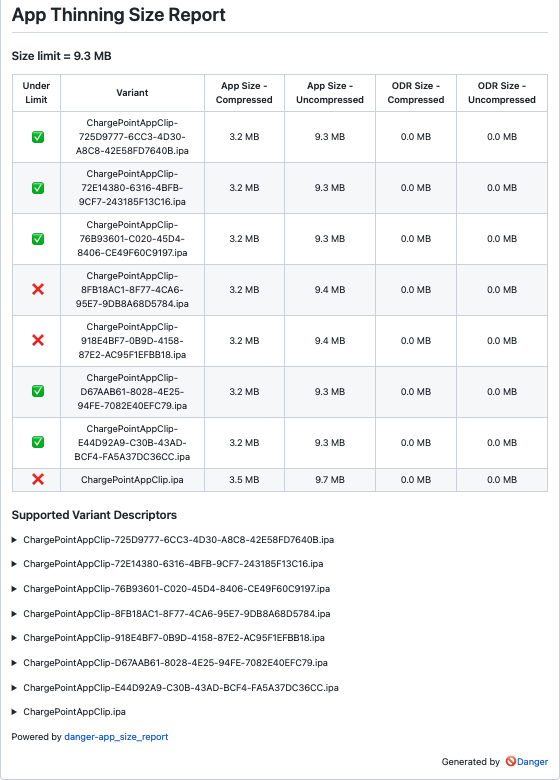
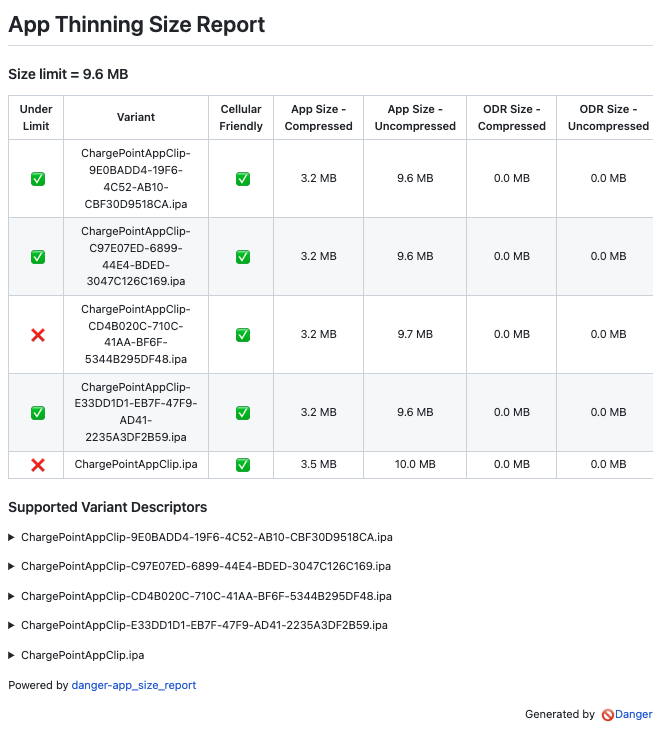
[IMA-12177] Add 'Cellular Friendly' column to iOS app size report (#10)
* [IMA-12177] Added 'Cellular Friendly' column

* [IMA-12177] Updated image of app size report in README.md

diff --git a/lib/app_size_report/plugin.rb b/lib/app_size_report/plugin.rb
@@ -121,6 +121,8 @@ module Danger
   #
   class DangerAppSizeReport < Plugin
     # Reports IOS app size violations given a valid App Thinning Size Report.
+    # The plugin also warns users about variants that exceed the optimal size
+    # limit for cellular downloads (200 MB).
     # @overload flag_ios_violations(report_path, build_type, limit_size, limit_unit, fail_on_warning)
     #   @param [String, required] report_path
     #         Path to valid App Thinning Size Report text file.
@@ -380,6 +382,7 @@ module Danger
 
     def generate_size_report_markdown(variants, build_type, size_limit, limit_unit, fail_on_warning)
       limit_size = MemorySize.new("#{size_limit}#{limit_unit}")
+      cellular_limit_size = MemorySize.new('200 MB')
 
       if build_type == 'Clip' && limit_size.megabytes > 10
         message "The size limit was set to 10 MB as the given limit of #{size_limit} #{limit_unit} exceeds Apple's App Clip size restrictions"
@@ -394,8 +397,10 @@ module Danger
       end
 
       flagged_variant_names = []
+      flagged_cellular_variant_names = []
       variants.each do |variant|
         flagged_variant_names.append(variant.variant) if variant.app_size.uncompressed.value > limit_size.megabytes || variant.on_demand_resources_size.uncompressed.value > limit_size.megabytes
+        flagged_cellular_variant_names.append(variant.variant) if variant.app_size.uncompressed.value > cellular_limit_size.megabytes || variant.on_demand_resources_size.uncompressed.value > cellular_limit_size.megabytes
       end
 
       if flagged_variant_names.length.positive?
@@ -406,21 +411,25 @@ module Danger
         end
       end
 
+      warn 'The optimal cellular size limit of 200 MB has been exceeded by one or more variants' if flagged_cellular_variant_names.length.positive?
+
       size_report = "# App Thinning Size Report\n"
       size_report << "### Size limit = #{size_limit} #{limit_unit.upcase}\n\n"
-      size_report << "| Under Limit | Variant | App Size - Compressed | App Size - Uncompressed | ODR Size - Compressed | ODR Size - Uncompressed |\n"
-      size_report << "| :-: | :-: | :-: | :-: | :-: | :-: |\n"
+      size_report << "| Under Limit | Variant | Cellular Friendly | App Size - Compressed | App Size - Uncompressed | ODR Size - Compressed | ODR Size - Uncompressed |\n"
+      size_report << "| :-: | :-: | :-: | :-: | :-: | :-: | :-:|\n"
 
       flagged_variants_set = flagged_variant_names.to_set
+      flagged_cellular_variants_set = flagged_cellular_variant_names.to_set
 
       variants.each do |variant|
         is_violating = flagged_variants_set.include?(variant.variant) ? '❌' : '✅'
+        is_cellular_friendly = flagged_cellular_variants_set.include?(variant.variant) ? '❌' : '✅'
         app_size_compressed = "#{variant.app_size.compressed.value} #{variant.app_size.compressed.unit}"
         app_size_uncompressed = "#{variant.app_size.uncompressed.value} #{variant.app_size.uncompressed.unit}"
         odr_size_compressed = "#{variant.on_demand_resources_size.compressed.value} #{variant.on_demand_resources_size.compressed.unit}"
         odr_size_uncompressed = "#{variant.on_demand_resources_size.uncompressed.value} #{variant.on_demand_resources_size.uncompressed.unit}"
 
-        size_report << "#{is_violating} | #{variant.variant} | #{app_size_compressed} | #{app_size_uncompressed} | #{odr_size_compressed} | #{odr_size_uncompressed} |\n"
+        size_report << "#{is_violating} | #{variant.variant} | #{is_cellular_friendly} | #{app_size_compressed} | #{app_size_uncompressed} | #{odr_size_compressed} | #{odr_size_uncompressed} |\n"
       end
 
       markdown size_report

diff --git a/spec/app_size_report_spec.rb b/spec/app_size_report_spec.rb
@@ -15,22 +15,33 @@ module Danger
       end
 
       it 'Converts App Size Report to JSON' do
-        json_string = @app_size_report.report_json("#{File.dirname(__dir__)}/Resources/App\ Thinning\ Size\ Report.txt")
+        json_string = @app_size_report.report_json("#{File.dirname(__dir__)}/Resources/App\ Thinning\ Size\ Report\ CPClip.txt")
 
         expected_json = File.read("#{File.dirname(__dir__)}/Resources/expectedReportJSON.json")
 
         expect(json_string).to eq(expected_json)
       end
 
-      it 'Generates IOS App Size Danger Report' do
+      it 'Generates IOS App Size Danger Report for Clip' do
         @app_size_report.flag_ios_violations(
-          "#{File.dirname(__dir__)}/Resources/App\ Thinning\ Size\ Report.txt",
+          "#{File.dirname(__dir__)}/Resources/App\ Thinning\ Size\ Report\ CPClip.txt",
           build_type: 'Clip',
           limit_size: 12,
           limit_unit: 'MB'
         )
 
         expect(@dangerfile.status_report[:warnings]).to eq(['The size limit of 10 MB has been exceeded by one or more variants'])
+      end
+
+      it 'Generates IOS App Size Danger Report for App' do
+        @app_size_report.flag_ios_violations(
+          "#{File.dirname(__dir__)}/Resources/App\ Thinning\ Size\ Report\ CP.txt",
+          build_type: 'App',
+          limit_size: 45,
+          limit_unit: 'MB'
+        )
+
+        expect(@dangerfile.status_report[:warnings]).to eq(['The size limit of 45 MB has been exceeded by one or more variants', 'The optimal cellular size limit of 200 MB has been exceeded by one or more variants'])
       end
 
       it 'Generates Android App Size Danger Report' do

diff --git a/README.md b/README.md
@@ -23,7 +23,7 @@ Report **iOS** app size violations given a valid App Thinning Size Report. A val
         fail_on_warning: false
     )
 
-The list of variants with their sizes and any violations will be displayed in the PR report as seen below. Supported variant descriptors are placed under collapsible sections.
+The list of variants with their sizes and any violations will be displayed in the PR report as seen below. Additionally, the report will include warnings for any variants that exceed the optimal size limit for cellular downloads (200 MB). Supported variant descriptors are placed under collapsible sections. 
 
 <p align="center">
   <img src="Resources/Images/app_thinning_size_report.png">
